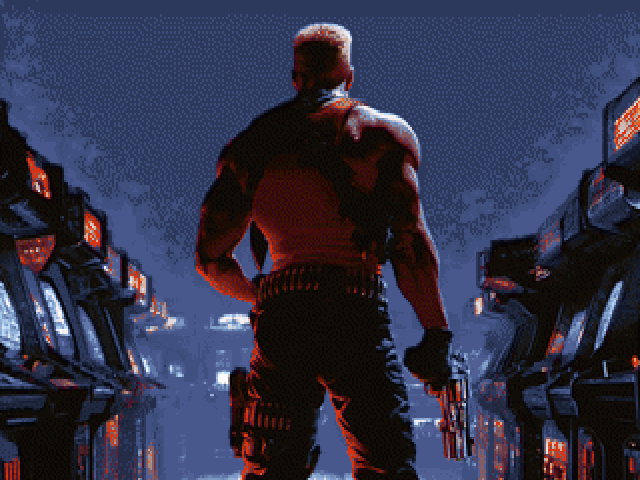
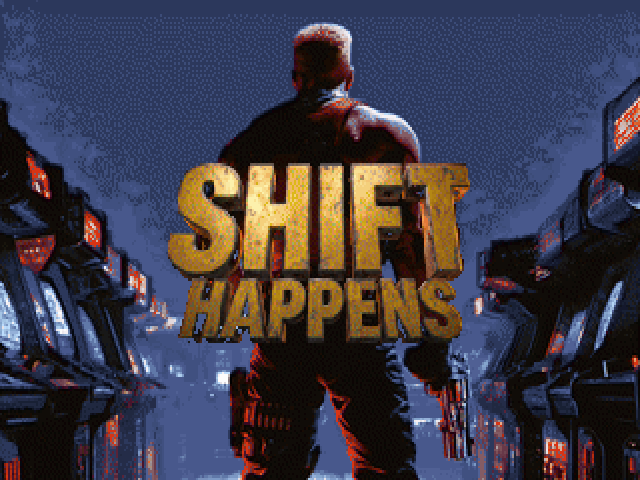
Title: SHIFT / HAPPENS fly in where DUKE NUKEM / 3D did
mktitle.py cuts the two words from art/title/logo.jpg and writes them as ART tiles over DUKENUKEM and THREEDEE, in
the title palette at 320x200 scale, sized and placed to the layout mockup (SHIFT padded so it sits higher and
HAPPENS clears it; Duke's fly-in code is unchanged). Colour 239 is never used: Duke's shade table remaps it.

Changed region(s): [[0.25, 0.3125, 0.75, 0.7188]]

diff --git a/tools/mktitle.py b/tools/mktitle.py
@@ -1,5 +1,6 @@
-"""Title screen: art/title/title.png (4:3) -> game/textures/title.art, which replaces Duke's BETASCREEN tile (2493).
-Run: python tools/mktitle.py
+"""Title screen: art/title/title.png (4:3) -> game/textures/title.art, which replaces Duke's BETASCREEN tile (2493);
+and the game's name flying in over it, from art/title/logo.jpg ("SHIFT" over "HAPPENS" on black) -> logo_shift.art
+and logo_happens.art, replacing DUKENUKEM (2497) and THREEDEE (2498). Run: python tools/mktitle.py
 
 Made exactly like the one it replaces: 320x200 (Duke's 4:3 screen, tall pixels), in Duke's title palette (TITLEPAL,
 from LOOKUP.DAT), so it shows the same way: same resolution, same palette, black bars on wider screens. It's an ART
@@ -15,6 +16,13 @@ SRC = os.path.join(ROOT, 'art', 'title', 'title.png')
 OUT = os.path.join(ROOT, 'game', 'textures', 'title.art')
 PREVIEW = os.path.join(ROOT, 'art', 'title', 'title_320x200.png')  # what the game shows, for looking at
 TILE = 2493  # BETASCREEN
+LOGO = os.path.join(ROOT, 'art', 'title', 'logo.jpg')
+# Each word: its band of rows in logo.jpg, the tile it replaces, where its letters should land on the 320x200 screen
+# (yellow face width, centre y; from the layout mockup) and where Duke's title code draws that tile (centre y; both
+# finish at zoom 15/16, screens.cpp). The tile is padded so the letters sit at their centre, not the tile's.
+WORDS = [('shift', (258, 1011), 2497, 151, 92.5, 104), ('happens', (1046, 1531), 2498, 142, 130, 129)]
+ZOOM = 60 / 64
+PIXEL_ASPECT = 1.2  # 320x200 shown at 4:3: pixels are 1.2 times taller than wide
 
 
 def title_palette():
@@ -26,22 +34,70 @@ def title_palette():
     return np.frombuffer(d[base:base + 768], np.uint8).reshape(256, 3).astype(np.int32) << 2
 
 
+def write_art(path, tile, idx):
+    """One-tile ART file: version, tile count, first, last; x size, y size, anim word; pixels column by column."""
+    h, w = idx.shape
+    with open(path, 'wb') as f:
+        f.write(struct.pack('<4i', 1, 1, tile, tile))
+        f.write(struct.pack('<hhI', w, h, 0))
+        f.write(idx.T.tobytes())
+
+
+def to_palette(rgb, pal):
+    # 255 is see-through in Build, and Duke's shade table sends 239 to another colour even at full brightness (it
+    # was made for the game palette, where the two look alike): give both a copy of 254, so they're never chosen
+    usable = pal.copy()
+    usable[239] = usable[255] = pal[254]
+    p = Image.new('P', (1, 1))
+    p.putpalette(usable.astype(np.uint8).flatten().tolist())
+    idx = np.asarray(rgb.quantize(palette=p, dither=Image.Dither.FLOYDSTEINBERG), np.uint8)
+    return np.where((idx == 239) | (idx == 255), 254, idx).astype(np.uint8)
+
+
+def logo_word(src, band, face_w, want_y, drawn_y, pal):
+    from scipy import ndimage
+    a = np.asarray(src, np.float32)[band[0]:band[1] + 1]
+    lum = a.mean(2)
+    alpha = ndimage.binary_closing(lum > 18, np.ones((5, 5)))
+    ys, xs = np.nonzero(alpha)
+    a, alpha = a[ys.min():ys.max() + 1, xs.min():xs.max() + 1], alpha[ys.min():ys.max() + 1, xs.min():xs.max() + 1]
+    # scale so the yellow faces come out face_w wide on screen, keeping the letters' shape on tall pixels
+    yel = (a[..., 0] > 150) & (a[..., 1] > 110) & (a[..., 2] < 110)
+    fx = np.nonzero(yel.sum(0) > 2)[0]
+    s = face_w / ZOOM / (fx.max() - fx.min() + 1)
+    w, h = round(a.shape[1] * s), round(a.shape[0] * s / PIXEL_ASPECT)
+    rgb = Image.fromarray(a.astype(np.uint8)).resize((w, h), Image.LANCZOS)
+    al = np.asarray(Image.fromarray((alpha * 255).astype(np.uint8)).resize((w, h), Image.LANCZOS)) >= 128
+    idx = to_palette(rgb, pal)
+    idx = np.where(al, idx, 255).astype(np.uint8)
+    # pad: the tile's centre is drawn at drawn_y; the letters' centre should be at want_y
+    pad = round(2 * (drawn_y - want_y) / ZOOM)
+    blank = np.full((abs(pad), w), 255, np.uint8)
+    return np.vstack([idx, blank] if pad > 0 else [blank, idx])
+
+
 def main():
     pal = title_palette()
     im = Image.open(SRC).convert('RGB').resize((320, 200), Image.LANCZOS)  # 4:3 shown with tall pixels
-    p = Image.new('P', (1, 1))
-    flat = pal[:255].astype(np.uint8).flatten().tolist()  # 255 is see-through in Build
-    p.putpalette(flat + flat[-3:])
-    q = im.quantize(palette=p, dither=Image.Dither.FLOYDSTEINBERG)
-    idx = np.asarray(q, np.uint8)
+    idx = to_palette(im, pal)
     assert idx.max() < 255
-    # ART: version, tile count, first, last; x sizes, y sizes, anim words; pixels column by column
-    with open(OUT, 'wb') as f:
-        f.write(struct.pack('<4i', 1, 1, TILE, TILE))
-        f.write(struct.pack('<h', 320) + struct.pack('<h', 200) + struct.pack('<I', 0))
-        f.write(idx.T.tobytes())
-    Image.fromarray(pal[idx].astype(np.uint8)).resize((640, 480), Image.NEAREST).save(PREVIEW)
+    write_art(OUT, TILE, idx)
     print(OUT)
+
+    # the name, and a preview of the finished screen (the words at their final size and place)
+    screen = idx.copy()
+    logo = Image.open(LOGO).convert('RGB')
+    for name, band, tile, face_w, want_y, drawn_y in WORDS:
+        word = logo_word(logo, band, face_w, want_y, drawn_y, pal)
+        path = os.path.join(ROOT, 'game', 'textures', 'logo_%s.art' % name)
+        write_art(path, tile, word)
+        print(path, '%dx%d' % (word.shape[1], word.shape[0]))
+        big = Image.fromarray(word).resize((round(word.shape[1] * ZOOM), round(word.shape[0] * ZOOM)), Image.NEAREST)
+        wz = np.asarray(big)
+        y0, x0 = round(drawn_y - wz.shape[0] / 2), round(160 - wz.shape[1] / 2)
+        region = screen[y0:y0 + wz.shape[0], x0:x0 + wz.shape[1]]
+        region[...] = np.where(wz != 255, wz, region)
+    Image.fromarray(pal[screen].astype(np.uint8)).resize((640, 480), Image.NEAREST).save(PREVIEW)
 
 
 if __name__ == '__main__':

diff --git a/tools/mkworld.py b/tools/mkworld.py
@@ -428,6 +428,8 @@ def write_textures():
     lines.append('tilefromtexture %d { file "textures/sky.png" }' % SKYTILE)
     lines.append('// the title screen, replacing BETASCREEN in its own size and palette (tools/mktitle.py)')
     lines.append('artfile { file "textures/title.art" }')
+    lines.append('artfile { file "textures/logo_shift.art" }    // over DUKENUKEM')
+    lines.append('artfile { file "textures/logo_happens.art" }  // over THREEDEE')
     lines.append('// sprites (monsters etc.): generated by tools/mksprite.py from art/sprites.json')
     lines.append('include "sprites.def"')
     open(os.path.join(ROOT, 'emine32.def'), 'w').write('\n'.join(lines) + '\n')
